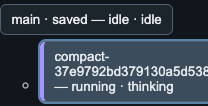
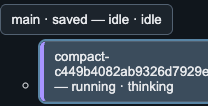
Bind local memory rehearsal to complete source inputs and causal events

Changed region(s): [[0.2596, 0.6226, 1.0, 0.7358]]

diff --git a/docs/edition-2-notes/codex-compaction-progress.md b/docs/edition-2-notes/codex-compaction-progress.md
@@ -703,3 +703,38 @@ that correction, and final `ELW14J` adds the tree capture and smaller receipt.
 Those earlier receipts remain in their scratch directories, with their limited
 claims preserved here. Live execution still waits for the required sequence
 gates and review; no runtime deployment, settings change or publication occurred.
+
+
+## October 14: final local capture corrections and interim review
+
+Independent interim review `2355ad58` closes the Chapter23 build-failure
+scoring correction `ce43d75e` and checks the launcher against its checklist.
+The initial source guard ignored untracked Agent inputs. It now rejects them
+before and after building: a temporary untracked Go source was rejected at
+the intended pre-build assertion (exit1), then removed. The raw negative
+control is `/tmp/ensemble-live-source-binding-negative.txt`. No paid run was
+used. Review `e9fd0676` separately accepts the reconstructed speech/MCP submit
+identity correction; full new20 and combined Stage D acceptance remain pending.
+
+The latest actual preflight is scratch suffix `C8xXXZ`, source `ce43d75e`,
+unchanged Agent tree `ec61c01d3f9841364843c1b7e1998d9c573790a4`, launcher SHA-256
[1 lines of base64/hex data omitted]
+The retained receipt and tree image now contain that run; the previous
+`ELW14J` artifacts remain in commit `6fa42fec` and their scratch directory.
+Capture now records the actual `message_received`, `request_sent` and
+`response_ended` event types, replacing nonexistent prompt/turn-end journal
+names. The owner admitted the second input at sequence14 after worker launch11
+and answered before committed outcome19. Selection/fallback, source2034 bytes,
+submitted/file847 bytes, auxiliary accounting, both normal exits and restart
+without inference still pass. Seven receipt negative controls still reject
+their intended omissions or mismatches.
+
+Review also clarified configuration provenance. These receipts retain launch
+configuration, not a GUI readback of effective settings. The omitted conversation
+watermarks resolve to high1200/low600 bytes in `internal/memory.Settings`, from
+its600-byte budget. Session values are explicitly high200000/low100000 with
+budget100000; other bands and recall are disabled. The launcher now labels that
+distinction for future receipts. This last metadata-only label has syntax/source
+validation, without claiming another application rehearsal or changing the
+retained run's launcher hash. No live inference, deployment or publication has
+occurred; the sequence gates still precede Stage F.
